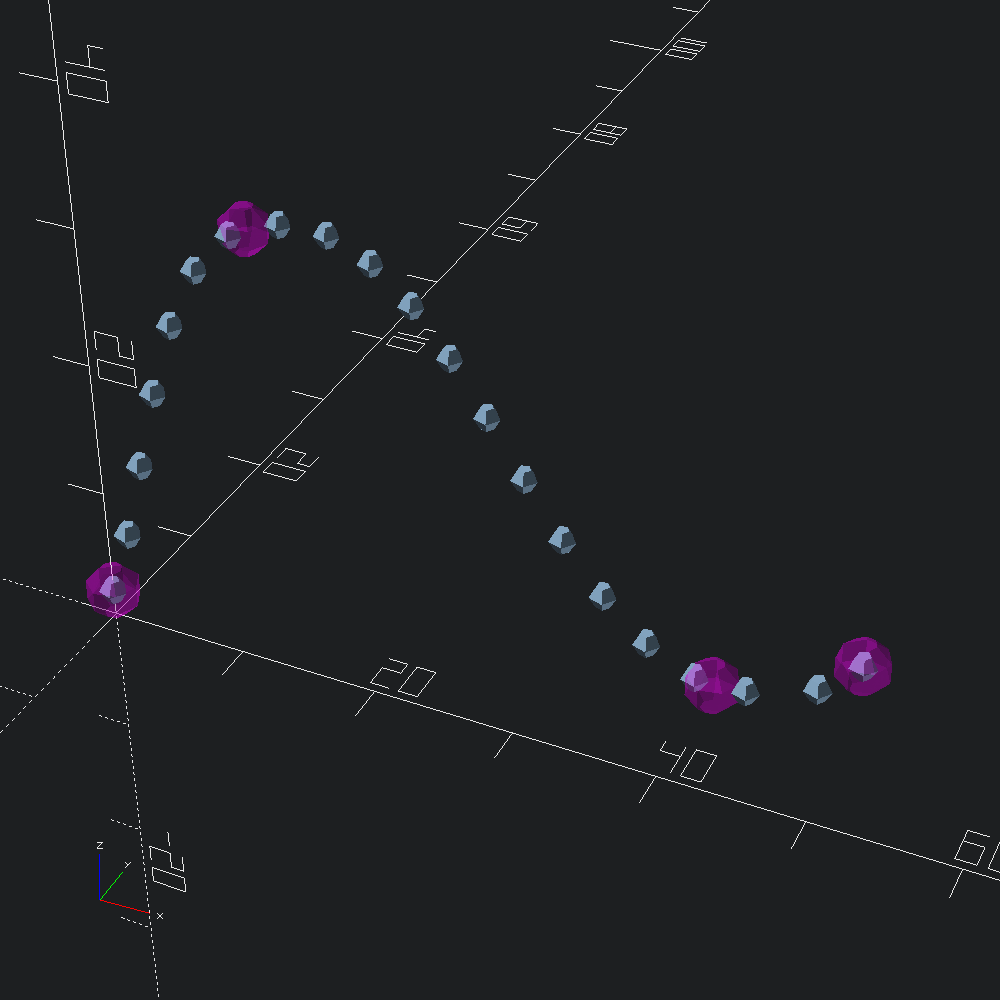
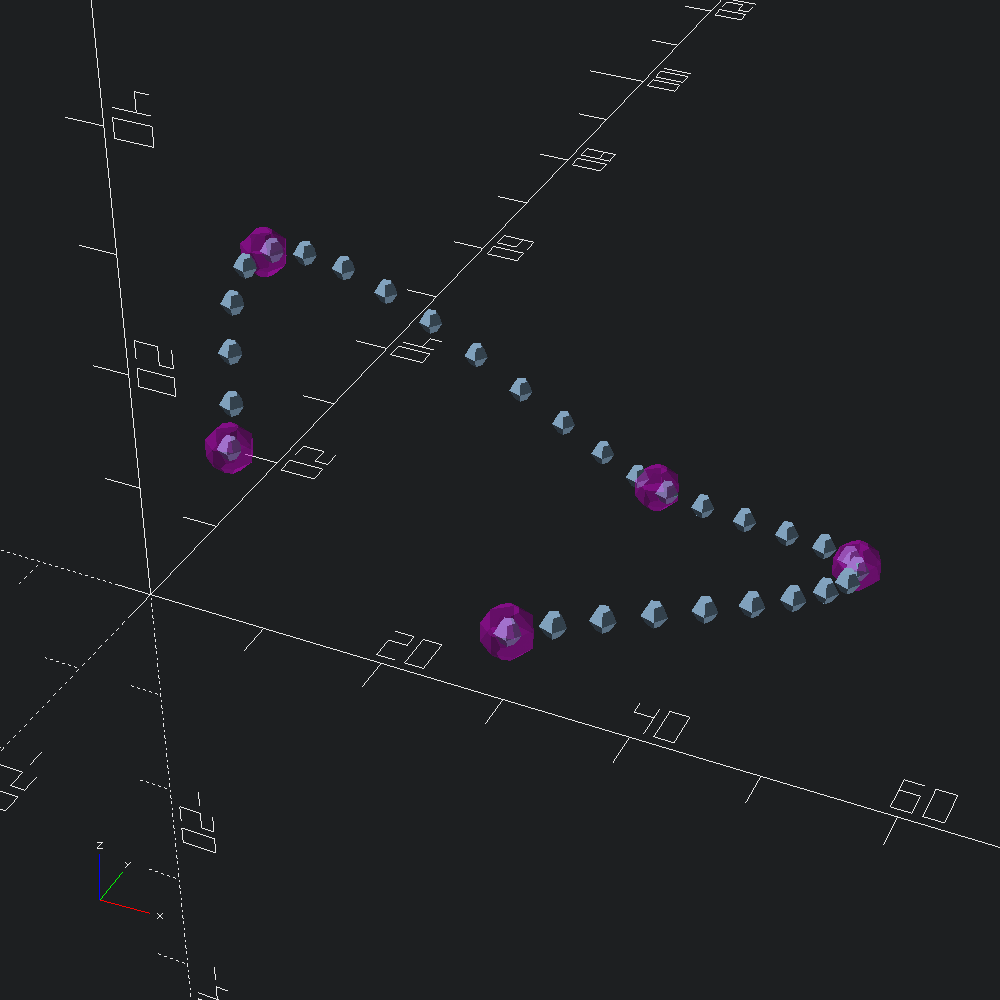
deploy: 494213b4adae53a23c4bdc8cb17ec07ea3f0b364

diff --git a/scad_ml/Scad_ml/Mesh/Prism/index.html b/scad_ml/Scad_ml/Mesh/Prism/index.html
@@ -1,5 +1,5 @@
 <!DOCTYPE html>
-<html xmlns="http://www.w3.org/1999/xhtml"><head><title>Prism (scad_ml.Scad_ml.Mesh.Prism)</title><link rel="stylesheet" href="../../../../odoc.css"/><meta charset="utf-8"/><meta name="generator" content="odoc 2.1.1"/><meta name="viewport" content="width=device-width,initial-scale=1.0"/><script src="../../../../highlight.pack.js"></script><script>hljs.initHighlightingOnLoad();</script></head><body class="odoc"><nav class="odoc-nav"><a href="../index.html">Up</a> – <a href="../../../index.html">scad_ml</a> &#x00BB; <a href="../../index.html">Scad_ml</a> &#x00BB; <a href="../index.html">Mesh</a> &#x00BB; Prism</nav><header class="odoc-preamble"><h1>Module <code><span>Mesh.Prism</span></code></h1><p>Rounded prism configuration module.</p></header><div class="odoc-content"><div class="odoc-spec"><div class="spec type" id="type-spec" class="anchored"><a href="#type-spec" class="anchor"></a><code><span><span class="keyword">type</span> spec</span><span> = </span><span>{</span></code><table><tr id="type-spec.k" class="anchored"><td class="def record field"><a href="#type-spec.k" class="anchor"></a><code><span>k : float;</span></code></td><td class="def-doc"><span class="comment-delim">(*</span><p>default curvature used if specific curvatures are <code>None</code></p><span class="comment-delim">*)</span></td></tr><tr id="type-spec.k_bot" class="anchored"><td class="def record field"><a href="#type-spec.k_bot" class="anchor"></a><code><span>k_bot : <span>float option</span>;</span></code></td><td class="def-doc"><span class="comment-delim">(*</span><p>curvature smoothness of bottom edges</p><span class="comment-delim">*)</span></td></tr><tr id="type-spec.k_top" class="anchored"><td class="def record field"><a href="#type-spec.k_top" class="anchor"></a><code><span>k_top : <span>float option</span>;</span></code></td><td class="def-doc"><span class="comment-delim">(*</span><p>curvature smoothness of bottom top</p><span class="comment-delim">*)</span></td></tr><tr id="type-spec.k_sides" class="anchored"><td class="def record field"><a href="#type-spec.k_sides" class="anchor"></a><code><span>k_sides : <span><span>[ <span>`Flat of float</span> <span><span>| `Mix</span> of <span>float list</span></span> ]</span> option</span>;</span></code></td><td class="def-doc"><span class="comment-delim">(*</span><p>smoothness to be applied flatly to all side edges, or a list specifying a smoothness for each edge (must be same length as corresponding paths)</p><span class="comment-delim">*)</span></td></tr><tr id="type-spec.joint_bot" class="anchored"><td class="def record field"><a href="#type-spec.joint_bot" class="anchor"></a><code><span>joint_bot : float * float;</span></code></td><td class="def-doc"><span class="comment-delim">(*</span><p>pair of inwards (into bottom face) and upwards (towards top) joint distances</p><span class="comment-delim">*)</span></td></tr><tr id="type-spec.joint_top" class="anchored"><td class="def record field"><a href="#type-spec.joint_top" class="anchor"></a><code><span>joint_top : float * float;</span></code></td><td class="def-doc"><span class="comment-delim">(*</span><p>pair of inwards (into top face) and downwards (towards bottom) joint distances</p><span class="comment-delim">*)</span></td></tr><tr id="type-spec.joint_sides" class="anchored"><td class="def record field"><a href="#type-spec.joint_sides" class="anchor"></a><code><span>joint_sides : <span>[ <span>`Flat of float * float</span> <span><span>| `Mix</span> of <span><span>(float * float)</span> list</span></span> ]</span>;</span></code></td><td class="def-doc"><span class="comment-delim">(*</span><p>pair of backwards and forwards joint distances to be applied flatly to all side edges, or a list specifying joints for each edge (must be same length as corresponding paths)</p><span class="comment-delim">*)</span></td></tr></table><code><span>}</span></code></div><div class="spec-doc"><p>Rounded prism joint and curvature specification.</p><p>In general, <code>joint_</code> parameters are pairs determine the distance away from the edge that curvature begins, and <code>k</code> parameters set the smoothness of the curvature.</p></div></div><div class="odoc-spec"><div class="spec type" id="type-holes" class="anchored"><a href="#type-holes" class="anchor"></a><code><span><span class="keyword">type</span> holes</span><span> = </span><span>[ </span></code><table><tr id="type-holes.Same" class="anchored"><td class="def constructor"><a href="#type-holes.Same" class="anchor"></a><code><span>| </span></code><code><span>`Same</span></code></td><td class="def-doc"><span class="comment-delim">(*</span><p>the outer path <a href="#type-spec"><code>spec</code></a> should be used for the holes</p><span class="comment-delim">*)</span></td></tr><tr id="type-holes.Flip" class="anchored"><td class="def constructor"><a href="#type-holes.Flip" class="anchor"></a><code><span>| </span></code><code><span>`Flip</span></code></td><td class="def-doc"><span class="comment-delim">(*</span><p>the outer path <a href="#type-spec"><code>spec</code></a> should be used for the holes, but with the top and bottom inward joint directions flipped (see <a href="#val-flip"><code>flip</code></a>)</p><span class="comment-delim">*)</span></td></tr><tr id="type-holes.Spec" class="anchored"><td class="def constructor"><a href="#type-holes.Spec" class="anchor"></a><code><span>| </span></code><code><span>`Spec <span class="keyword">of</span> <a href="#type-spec">spec</a></span></code></td><td class="def-doc"><span class="comment-delim">(*</span><p>one <a href="#type-spec"><code>spec</code></a> to use for all holes</p><span class="comment-delim">*)</span></td></tr><tr id="type-holes.Mix" class="anchored"><td class="def constructor"><a href="#type-holes.Mix" class="anchor"></a><code><span>| </span></code><code><span>`Mix <span class="keyword">of</span> <span><span>[ <span>`Spec of <a href="#type-spec">spec</a></span> <span>| `Flip</span> <span>| `Same</span> ]</span> list</span></span></code></td></tr></table><code><span> ]</span></code></div><div class="spec-doc"><p>Specifies how holes in the prism should be treated, either relative to the outer shape, or independantly. When multiple holes are present, <code>`Mix</code> allows each one to be specified separately, to treat all the same, use the other variants directly.</p></div></div><div class="odoc-spec"><div class="spec value" id="val-flip" class="anchored"><a href="#val-flip" class="anchor"></a><code><span><span class="keyword">val</span> flip : <span><a href="#type-spec">spec</a> <span class="arrow">&#45;&gt;</span></span> <a href="#type-spec">spec</a></span></code></div><div class="spec-doc"><p><code>flip spec</code></p><p>Negate the top and bottom inwards joints (firsts of the <code>joint_bot</code> and <code>joint_top</code> pairs) of <code>spec</code>. These values govern whether the roundover flare inwards (positive when shape is CCW) or outwards (negative when shape is CCW). Since holes (inner paths) have reverse winding compared the outer path, you'll often want to use opposite polarity inward joints.</p></div></div><div class="odoc-spec"><div class="spec value" id="val-spec" class="anchored"><a href="#val-spec" class="anchor"></a><code><span><span class="keyword">val</span> spec : 
+<html xmlns="http://www.w3.org/1999/xhtml"><head><title>Prism (scad_ml.Scad_ml.Mesh.Prism)</title><link rel="stylesheet" href="../../../../odoc.css"/><meta charset="utf-8"/><meta name="generator" content="odoc 2.1.1"/><meta name="viewport" content="width=device-width,initial-scale=1.0"/><script src="../../../../highlight.pack.js"></script><script>hljs.initHighlightingOnLoad();</script></head><body class="odoc"><nav class="odoc-nav"><a href="../index.html">Up</a> – <a href="../../../index.html">scad_ml</a> &#x00BB; <a href="../../index.html">Scad_ml</a> &#x00BB; <a href="../index.html">Mesh</a> &#x00BB; Prism</nav><header class="odoc-preamble"><h1>Module <code><span>Mesh.Prism</span></code></h1><p>Rounded prism configuration module.</p></header><div class="odoc-content"><div class="odoc-spec"><div class="spec type" id="type-spec" class="anchored"><a href="#type-spec" class="anchor"></a><code><span><span class="keyword">type</span> spec</span><span> = </span><span>{</span></code><table><tr id="type-spec.k" class="anchored"><td class="def record field"><a href="#type-spec.k" class="anchor"></a><code><span>k : float;</span></code></td><td class="def-doc"><span class="comment-delim">(*</span><p>default curvature used if specific curvatures are <code>None</code></p><span class="comment-delim">*)</span></td></tr><tr id="type-spec.k_bot" class="anchored"><td class="def record field"><a href="#type-spec.k_bot" class="anchor"></a><code><span>k_bot : <span>float option</span>;</span></code></td><td class="def-doc"><span class="comment-delim">(*</span><p>curvature smoothness of bottom edges</p><span class="comment-delim">*)</span></td></tr><tr id="type-spec.k_top" class="anchored"><td class="def record field"><a href="#type-spec.k_top" class="anchor"></a><code><span>k_top : <span>float option</span>;</span></code></td><td class="def-doc"><span class="comment-delim">(*</span><p>curvature smoothness of bottom top</p><span class="comment-delim">*)</span></td></tr><tr id="type-spec.k_sides" class="anchored"><td class="def record field"><a href="#type-spec.k_sides" class="anchor"></a><code><span>k_sides : <span><span>[ <span>`Flat of float</span> <span><span>| `Mix</span> of <span>float list</span></span> ]</span> option</span>;</span></code></td><td class="def-doc"><span class="comment-delim">(*</span><p>smoothness to be applied flatly to all side edges, or a list specifying a smoothness for each edge (must be same length as corresponding paths)</p><span class="comment-delim">*)</span></td></tr><tr id="type-spec.joint_bot" class="anchored"><td class="def record field"><a href="#type-spec.joint_bot" class="anchor"></a><code><span>joint_bot : float * float;</span></code></td><td class="def-doc"><span class="comment-delim">(*</span><p>pair of inwards (into bottom face) and upwards (towards top) joint distances</p><span class="comment-delim">*)</span></td></tr><tr id="type-spec.joint_top" class="anchored"><td class="def record field"><a href="#type-spec.joint_top" class="anchor"></a><code><span>joint_top : float * float;</span></code></td><td class="def-doc"><span class="comment-delim">(*</span><p>pair of inwards (into top face) and downwards (towards bottom) joint distances</p><span class="comment-delim">*)</span></td></tr><tr id="type-spec.joint_sides" class="anchored"><td class="def record field"><a href="#type-spec.joint_sides" class="anchor"></a><code><span>joint_sides : <span>[ <span>`Flat of float * float</span> <span><span>| `Mix</span> of <span><span>(float * float)</span> list</span></span> ]</span>;</span></code></td><td class="def-doc"><span class="comment-delim">(*</span><p>pair of backwards and forwards joint distances to be applied flatly to all side edges, or a list specifying joints for each edge (must be same length as corresponding paths)</p><span class="comment-delim">*)</span></td></tr></table><code><span>}</span></code></div><div class="spec-doc"><p>Rounded prism joint and curvature specification.</p><p>In general, <code>joint_</code> parameters are pairs determine the distance away from the edge that curvature begins, and <code>k</code> parameters set the smoothness of the curvature.</p></div></div><div class="odoc-spec"><div class="spec type" id="type-holes" class="anchored"><a href="#type-holes" class="anchor"></a><code><span><span class="keyword">type</span> holes</span><span> = </span><span>[ </span></code><table><tr id="type-holes.Same" class="anchored"><td class="def constructor"><a href="#type-holes.Same" class="anchor"></a><code><span>| </span></code><code><span>`Same</span></code></td><td class="def-doc"><span class="comment-delim">(*</span><p>the outer path <a href="#type-spec"><code>spec</code></a> should be used for the holes</p><span class="comment-delim">*)</span></td></tr><tr id="type-holes.Flip" class="anchored"><td class="def constructor"><a href="#type-holes.Flip" class="anchor"></a><code><span>| </span></code><code><span>`Flip</span></code></td><td class="def-doc"><span class="comment-delim">(*</span><p>the outer path <a href="#type-spec"><code>spec</code></a> should be used for the holes, but with the top and bottom inward joint directions flipped (see <a href="#val-flip"><code>flip</code></a>)</p><span class="comment-delim">*)</span></td></tr><tr id="type-holes.Spec" class="anchored"><td class="def constructor"><a href="#type-holes.Spec" class="anchor"></a><code><span>| </span></code><code><span>`Spec <span class="keyword">of</span> <a href="#type-spec">spec</a></span></code></td><td class="def-doc"><span class="comment-delim">(*</span><p>one <a href="#type-spec"><code>spec</code></a> to use for all holes</p><span class="comment-delim">*)</span></td></tr><tr id="type-holes.Mix" class="anchored"><td class="def constructor"><a href="#type-holes.Mix" class="anchor"></a><code><span>| </span></code><code><span>`Mix <span class="keyword">of</span> <span><span>[ <span>`Spec of <a href="#type-spec">spec</a></span> <span>| `Flip</span> <span>| `Same</span> ]</span> list</span></span></code></td></tr></table><code><span> ]</span></code></div><div class="spec-doc"><p>Specifies how holes in the prism should be treated, either relative to the outer shape, or independantly. When multiple holes are present, <code>`Mix</code> allows each one to be specified separately, to treat all the same, use the other variants directly.</p></div></div><div class="odoc-spec"><div class="spec value" id="val-flip" class="anchored"><a href="#val-flip" class="anchor"></a><code><span><span class="keyword">val</span> flip : <span><a href="#type-spec">spec</a> <span class="arrow">&#45;&gt;</span></span> <a href="#type-spec">spec</a></span></code></div><div class="spec-doc"><p><code>flip spec</code></p><p>Negate the top and bottom inwards joints (firsts of the <code>joint_bot</code> and <code>joint_top</code> pairs) of <code>caps</code>. These values govern whether the roundover flare inwards (positive when shape is CCW) or outwards (negative when shape is CCW). Since holes (inner paths) have reverse winding compared the outer path, you'll often want to use opposite polarity inward joints.</p></div></div><div class="odoc-spec"><div class="spec value" id="val-spec" class="anchored"><a href="#val-spec" class="anchor"></a><code><span><span class="keyword">val</span> spec : 
   <span>?k:float <span class="arrow">&#45;&gt;</span></span>
   <span>?k_bot:float <span class="arrow">&#45;&gt;</span></span>
   <span>?k_top:float <span class="arrow">&#45;&gt;</span></span>

diff --git a/scad_ml/rounded_polyhole_sweep.html b/scad_ml/rounded_polyhole_sweep.html
@@ -1,6 +1,8 @@
 <!DOCTYPE html>
-<html xmlns="http://www.w3.org/1999/xhtml"><head><title>rounded_polyhole_sweep (scad_ml.rounded_polyhole_sweep)</title><link rel="stylesheet" href="../odoc.css"/><meta charset="utf-8"/><meta name="generator" content="odoc 2.1.1"/><meta name="viewport" content="width=device-width,initial-scale=1.0"/><script src="../highlight.pack.js"></script><script>hljs.initHighlightingOnLoad();</script></head><body class="odoc"><nav class="odoc-nav"><a href="index.html">Up</a> – <a href="index.html">scad_ml</a> &#x00BB; rounded_polyhole_sweep</nav><header class="odoc-preamble"><h1 id="rounded-sweeps"><a href="#rounded-sweeps" class="anchor"></a>Rounded sweeps</h1><pre><code>open Scad_ml</code></pre><p>Create a bezier spline function which passes through all of points in <code>control</code> using <a href="Scad_ml/Bezier3/index.html#val-of_path"><code>Bezier3.of_path</code></a>, and interpolate <code>20</code> points along it to create our <code>path</code> with <a href="Scad_ml/Bezier3/index.html#val-curve"><code>Bezier3.curve</code></a>.</p><pre><code>let control = Vec3.[ v 0. 0. 2.; v 0. 20. 20.; v 40. 10. 0.; v 50. 10. 5. ]
-let path = Bezier3.curve ~fn:20 @@ Bezier3.of_path control</code></pre><p>We can quickly visualize <code>path</code>, and the <code>control</code> points that it passes through by using the <a href="Scad_ml/Path3/index.html#val-show_points"><code>Path3.show_points</code></a> helper, which places a <a href="Scad_ml/Scad/index.html#type-d3"><code>Scad.d3</code></a> shape at each point along the path (this takes a function from index to shape, rather than a shape directly to allow for differentiating the points, <i>e.g.</i> numbering with <a href="Scad_ml/Scad/index.html#val-text"><code>Scad.text</code></a>).</p><pre><code>let () =
+<html xmlns="http://www.w3.org/1999/xhtml"><head><title>rounded_polyhole_sweep (scad_ml.rounded_polyhole_sweep)</title><link rel="stylesheet" href="../odoc.css"/><meta charset="utf-8"/><meta name="generator" content="odoc 2.1.1"/><meta name="viewport" content="width=device-width,initial-scale=1.0"/><script src="../highlight.pack.js"></script><script>hljs.initHighlightingOnLoad();</script></head><body class="odoc"><nav class="odoc-nav"><a href="index.html">Up</a> – <a href="index.html">scad_ml</a> &#x00BB; rounded_polyhole_sweep</nav><header class="odoc-preamble"><h1 id="rounded-sweeps"><a href="#rounded-sweeps" class="anchor"></a>Rounded sweeps</h1><pre><code>open Scad_ml</code></pre><p>Create a bezier spline function which passes through all of points in <code>control</code> using <a href="Scad_ml/Bezier3/index.html#val-of_path"><code>Bezier3.of_path</code></a>, and interpolate <code>20</code> points along it to create our <code>path</code> with <a href="Scad_ml/Bezier3/index.html#val-curve"><code>Bezier3.curve</code></a>.</p><pre><code>let control =
+  Vec3.[ v 5. 5. 12.; v 0. 20. 20.; v 30. 30. 0.; v 50. 20. 5.; v 35. (-10.) 15. ]
+
+let path = Bezier3.curve ~fn:30 @@ Bezier3.of_path control</code></pre><p>We can quickly visualize <code>path</code>, and the <code>control</code> points that it passes through by using the <a href="Scad_ml/Path3/index.html#val-show_points"><code>Path3.show_points</code></a> helper, which places a <a href="Scad_ml/Scad/index.html#type-d3"><code>Scad.d3</code></a> shape at each point along the path (this takes a function from index to shape, rather than a shape directly to allow for differentiating the points, <i>e.g.</i> numbering with <a href="Scad_ml/Scad/index.html#val-text"><code>Scad.text</code></a>).</p><pre><code>let () =
   Scad.to_file &quot;bezier_spline_path.scad&quot;
   @@ Scad.union
        [ Path3.show_points (fun _ -&gt; Scad.sphere 1.) path
@@ -23,11 +25,11 @@ let path = Bezier3.curve ~fn:20 @@ Bezier3.of_path control</code></pre><p>We can
   Poly2.make ~holes outer</code></pre><p>2d shapes defined with <a href="Scad_ml/Poly2/index.html#type-t"><code>Poly2.t</code></a> can be translated into OpenSCAD polygons by way of <a href="Scad_ml/Poly2/index.html#val-to_scad"><code>Poly2.to_scad</code></a>.</p><pre><code>let () = Scad.to_file &quot;chamfered_square_with_holes.scad&quot; (Poly2.to_scad poly)</code></pre>
 <p style="text-align:center;">
 <img src="../assets/chamfered_square_with_holes.png" style="width:150mm;"/>
-</p> <p><a href="Scad_ml/Mesh/index.html#val-sweep"><code>Mesh.sweep</code></a> derived functions take a <code>~spec</code> parameter that specifies what to do with the end faces of the extruded mesh. By default, both caps are flat and identical to the input polygon (<a href="Scad_ml/Mesh/Cap/index.html#val-flat_caps"><code>Mesh.Cap.flat_caps</code></a>), but in this example, we will be rounding them over.</p><p>To build our <code>spec</code>, we'll use the <a href="Scad_ml/Mesh/Cap/index.html#val-capped"><code>Mesh.Cap.capped</code></a> constructor which takes specification types for how we would like to treat the bottom and top faces of our extrusion. In this case, we'll be applying roundovers to both the <code>bot</code>tom and <code>top</code> faces, so we use <a href="Scad_ml/Mesh/Cap/index.html#val-round"><code>Mesh.Cap.round</code></a> which takes an <a href="Scad_ml/Mesh/Cap/index.html#val-offsets"><code>Mesh.Cap.offsets</code></a> containing the offset distance/radius and &quot;vertical&quot; step for each outline of the outer roundover, and optionally, the desired treatment of the inner paths (as <code>~holes</code>). Typically, the offsets will be generated by a helper such as <a href="Scad_ml/Mesh/Cap/index.html#val-chamf"><code>Mesh.Cap.chamf</code></a> and <a href="Scad_ml/Mesh/Cap/index.html#val-circ"><code>Mesh.Cap.circ</code></a> below.</p><p>Here we apply a negative (outward flaring) chamfer to the bottom face, setting <code>holes</code> to <code>`Same</code>, so that the circular holes in <code>poly</code> are also expanded, rather than pinched off (default is (<code>~holes:`Flip</code>), which negates the outer roundover for inner paths). For the top face, we specify a positive (inward) circular roundover, leaving <code>holes</code> as its default since we want the holes to flare out instead.</p><pre><code>let spec =
+</p> <p><a href="Scad_ml/Mesh/index.html#val-sweep"><code>Mesh.sweep</code></a> derived functions take a <code>~caps</code> parameter that specifies what to do with the end faces of the extruded mesh. By default, both caps are flat and identical to the input polygon (<a href="Scad_ml/Mesh/Cap/index.html#val-flat_caps"><code>Mesh.Cap.flat_caps</code></a>), but in this example, we will be rounding them over.</p><p>To build our <code>caps</code>, we'll use the <a href="Scad_ml/Mesh/Cap/index.html#val-capped"><code>Mesh.Cap.capped</code></a> constructor which takes specification types for how we would like to treat the bottom and top faces of our extrusion. In this case, we'll be applying roundovers to both the <code>bot</code>tom and <code>top</code> faces, so we use <a href="Scad_ml/Mesh/Cap/index.html#val-round"><code>Mesh.Cap.round</code></a> which takes an <a href="Scad_ml/Mesh/Cap/index.html#val-offsets"><code>Mesh.Cap.offsets</code></a> containing the offset distance/radius and &quot;vertical&quot; step for each outline of the outer roundover, and optionally, the desired treatment of the inner paths (as <code>~holes</code>). Typically, the offsets will be generated by a helper such as <a href="Scad_ml/Mesh/Cap/index.html#val-chamf"><code>Mesh.Cap.chamf</code></a> and <a href="Scad_ml/Mesh/Cap/index.html#val-circ"><code>Mesh.Cap.circ</code></a> below.</p><p>Here we apply a negative (outward flaring) chamfer to the bottom face, setting <code>holes</code> to <code>`Same</code>, so that the circular holes in <code>poly</code> are also expanded, rather than pinched off (default is (<code>~holes:`Flip</code>), which negates the outer roundover for inner paths). For the top face, we specify a positive (inward) circular roundover, leaving <code>holes</code> as its default since we want the holes to flare out instead.</p><pre><code>let caps =
   Mesh.Cap.(
     capped
       ~bot:(round ~holes:`Same @@ chamf ~height:(-1.2) ~angle:(Float.pi /. 8.) ())
-      ~top:(round @@ circ (`Radius 0.5)))</code></pre><p>Extrude <code>poly</code> along <code>path</code>, with rounding over the end caps according to <code>spec</code> using <a href="Scad_ml/Mesh/index.html#val-path_extrude"><code>Mesh.path_extrude</code></a>.</p><pre><code>let mesh = Mesh.path_extrude ~path ~spec poly</code></pre><p>Convert our mesh into an OpenSCAD polyhedron and output to file with <a href="Scad_ml/Mesh/index.html#val-to_scad"><code>Mesh.to_scad</code></a>.</p><pre><code>let () = Scad.to_file &quot;rounded_polyhole_sweep.scad&quot; (Mesh.to_scad mesh)</code></pre>
+      ~top:(round @@ circ (`Radius 0.5)))</code></pre><p>Extrude <code>poly</code> along <code>path</code>, with rounding over the end caps according to <code>caps</code> using <a href="Scad_ml/Mesh/index.html#val-path_extrude"><code>Mesh.path_extrude</code></a>.</p><pre><code>let mesh = Mesh.path_extrude ~path ~caps poly</code></pre><p>Convert our mesh into an OpenSCAD polyhedron and output to file with <a href="Scad_ml/Mesh/index.html#val-to_scad"><code>Mesh.to_scad</code></a>.</p><pre><code>let () = Scad.to_file &quot;rounded_polyhole_sweep.scad&quot; (Mesh.to_scad mesh)</code></pre>
 <p style="text-align:center;">
 <img src="../assets/rounded_polyhole_sweep.png" style="width:150mm;"/>
 </p> <p>Rounded 3d paths for sweeping can also be drawn with the help of the <a href="Scad_ml/Path3/Round/index.html"><code>Path3.Round</code></a> module, which works much the same as its counterpart in <a href="Scad_ml/Path2/index.html"><code>Path2</code></a> that we used to chamfer our <code>poly</code> earlier.</p><pre><code>let rounded_path =
@@ -36,8 +38,8 @@ let path = Bezier3.curve ~fn:20 @@ Bezier3.of_path control</code></pre><p>We can
     @@ Round.flat
          ~closed:true
          ~corner:(Round.circ (`Radius 10.))
-         (v3 (-25.) 25. 0. :: Path3.square (v2 50. 50.)))</code></pre><p><a href="Scad_ml/Mesh/index.html#val-path_extrude"><code>Mesh.path_extrude</code></a> (and other functions derived from <code>Mesh.sweep</code>) can be given <code>~spec:`Looped</code>, which will connect the final position of the sweep up with the beginning, rather than sealing both ends off with caps. If the swept polygon has holes (as our <code>poly</code> does), they will be included, and continuous much like the outer shape.</p><pre><code>let () =
-  let loop = Mesh.(to_scad @@ path_extrude ~spec:`Looped ~path:rounded_path poly)
+         (v3 (-25.) 25. 0. :: Path3.square (v2 50. 50.)))</code></pre><p><a href="Scad_ml/Mesh/index.html#val-path_extrude"><code>Mesh.path_extrude</code></a> (and other functions derived from <code>Mesh.sweep</code>) can be given <code>~caps:`Looped</code>, which will connect the final position of the sweep up with the beginning, rather than sealing both ends off with caps. If the swept polygon has holes (as our <code>poly</code> does), they will be included, and continuous much like the outer shape.</p><pre><code>let () =
+  let loop = Mesh.(to_scad @@ path_extrude ~caps:`Looped ~path:rounded_path poly)
   and cut =
     Scad.cylinder ~fn:50 ~center:true ~height:11. 5.
     |&gt; Scad.scale (v3 1.2 1. 1.)

diff --git a/scad_ml/Scad_ml/Mesh/index.html b/scad_ml/Scad_ml/Mesh/index.html
@@ -9,10 +9,20 @@
   <span>?check_valid:<span>[ <span>`Quality of int</span> <span>| `No</span> ]</span> <span class="arrow">&#45;&gt;</span></span>
   <span>?merge:bool <span class="arrow">&#45;&gt;</span></span>
   <span>?winding:<span>[&lt; `CCW <span>| `CW</span> <span>| `NoCheck</span> CCW CW ]</span> <span class="arrow">&#45;&gt;</span></span>
-  <span>?spec:<a href="Cap/index.html#type-t">Cap.t</a> <span class="arrow">&#45;&gt;</span></span>
+  <span>?caps:<a href="Cap/index.html#type-t">Cap.t</a> <span class="arrow">&#45;&gt;</span></span>
   <span>transforms:<span><a href="../MultMatrix/index.html#type-t">MultMatrix.t</a> list</span> <span class="arrow">&#45;&gt;</span></span>
   <span><a href="../Poly2/index.html#type-t">Poly2.t</a> <span class="arrow">&#45;&gt;</span></span>
-  <a href="#type-t">t</a></span></code></div><div class="spec-doc"><p><code>sweep ?check_valid ?winding ?merge ?fn ?fs ?fa ?spec ~transforms poly</code></p><p>Sweep a 2d polygon into a 3d mesh by applying a sequence of <code>transforms</code> to the original shape. The <code>winding</code> parameter can be used to set automatic enforcement of polygon winding direction, which will impact the winding of the generated faces of the mesh. What is done with the endcaps can be specified with <code>spec</code>. By default the ends of the extrusion are sealed with flat faces, but they can instead be looped to eachother, left empty, or rounded over. If <code>merge</code> is <code>true</code> (as is default), <a href="#val-merge_points"><code>merge_points</code></a> is applied to the resulting mesh, as duplicate points are introduced when end caps are joined to the outer and inner meshes. If the duplicate points aren't a problem for you (they aren't <i>necessarily</i>), this can be turned off to save some compute.</p><p>Relevant when roundovers are on:</p><ul><li><code>check_valid</code> determines whether validity checks are performed during offset operations, see <a href="../Path2/index.html#val-offset"><code>Path2.offset</code></a>, for cap roundovers (if specified).</li><li><code>fn</code>, <code>fs</code>, and <code>fa</code> determine number of points used when generating new points in the <a href="../Path2/index.html#val-offset"><code>Path2.offset</code></a> roundover, if <code>`Radius</code> mode is being used.</li></ul></div></div><div class="odoc-spec"><div class="spec value" id="val-linear_extrude" class="anchored"><a href="#val-linear_extrude" class="anchor"></a><code><span><span class="keyword">val</span> linear_extrude : 
+  <a href="#type-t">t</a></span></code></div><div class="spec-doc"><p><code>sweep ?check_valid ?winding ?merge ?fn ?fs ?fa ?caps ~transforms poly</code></p><p>Sweep a 2d polygon into a 3d mesh by applying a sequence of <code>transforms</code> to the original shape. The <code>winding</code> parameter can be used to set automatic enforcement of polygon winding direction, which will impact the winding of the generated faces of the mesh. What is done with the endcaps can be specified with <code>caps</code>. By default the ends of the extrusion are sealed with flat faces, but they can instead be looped to eachother, left empty, or rounded over. If <code>merge</code> is <code>true</code> (as is default), <a href="#val-merge_points"><code>merge_points</code></a> is applied to the resulting mesh, as duplicate points are introduced when end caps are joined to the outer and inner meshes. If the duplicate points aren't a problem for you (they aren't <i>necessarily</i>), this can be turned off to save some compute.</p><p>Relevant when roundovers are on:</p><ul><li><code>check_valid</code> determines whether validity checks are performed during offset operations, see <a href="../Path2/index.html#val-offset"><code>Path2.offset</code></a>, for cap roundovers (if specified).</li><li><code>fn</code>, <code>fs</code>, and <code>fa</code> determine number of points used when generating new points in the <a href="../Path2/index.html#val-offset"><code>Path2.offset</code></a> roundover, if <code>`Radius</code> mode is being used.</li></ul></div></div><div class="odoc-spec"><div class="spec value" id="val-morph" class="anchored"><a href="#val-morph" class="anchor"></a><code><span><span class="keyword">val</span> morph : 
+  <span>?check_valid:<span>[ <span>`Quality of int</span> <span>| `No</span> ]</span> <span class="arrow">&#45;&gt;</span></span>
+  <span>?merge:bool <span class="arrow">&#45;&gt;</span></span>
+  <span>?winding:<span>[&lt; `CCW <span>| `CW</span> <span>| `NoCheck</span> CCW CW ]</span> <span class="arrow">&#45;&gt;</span></span>
+  <span>?caps:<a href="Cap/index.html#type-t">Cap.t</a> <span class="arrow">&#45;&gt;</span></span>
+  <span>?outer_map:<span>[ <a href="../Skin/index.html#type-resampler">Skin.resampler</a> <span>| <a href="../Skin/index.html#type-duplicator">Skin.duplicator</a></span> ]</span> <span class="arrow">&#45;&gt;</span></span>
+  <span>?hole_map:<span>[ `Same <span>| <a href="../Skin/index.html#type-mapping">Skin.mapping</a></span> ]</span> <span class="arrow">&#45;&gt;</span></span>
+  <span>transforms:<span><a href="../MultMatrix/index.html#type-t">MultMatrix.t</a> list</span> <span class="arrow">&#45;&gt;</span></span>
+  <span><a href="../Poly2/index.html#type-t">Poly2.t</a> <span class="arrow">&#45;&gt;</span></span>
+  <span><a href="../Poly2/index.html#type-t">Poly2.t</a> <span class="arrow">&#45;&gt;</span></span>
+  <a href="#type-t">t</a></span></code></div><div class="spec-doc"><p><code>morph</code></p></div></div><div class="odoc-spec"><div class="spec value" id="val-linear_extrude" class="anchored"><a href="#val-linear_extrude" class="anchor"></a><code><span><span class="keyword">val</span> linear_extrude : 
   <span>?check_valid:<span>[ <span>`Quality of int</span> <span>| `No</span> ]</span> <span class="arrow">&#45;&gt;</span></span>
   <span>?merge:bool <span class="arrow">&#45;&gt;</span></span>
   <span>?winding:<span>[&lt; `CCW <span>| `CW</span> <span>| `NoCheck</span> CCW CW ]</span> <span class="arrow">&#45;&gt;</span></span>
@@ -27,11 +37,11 @@
   <span>height:float <span class="arrow">&#45;&gt;</span></span>
   <span><a href="../Poly2/index.html#type-t">Poly2.t</a> <span class="arrow">&#45;&gt;</span></span>
   <a href="#type-t">t</a></span></code></div><div class="spec-doc"><p><code>linear_extrude ?check_valid ?merge ?winding ?fa ?slices ?scale_k ?twist_k ?scale ?twist
-    ?center ?caps ~height poly</code></p><p>Vertically extrude a 2d polygon into a 3d mesh. <code>slices</code>, <code>scale</code>, <code>twist</code>, <code>center</code>, and <code>height</code> parameters are analogous to those found on <a href="../Scad/index.html#val-linear_extrude"><code>Scad.linear_extrude</code></a>. See <a href="#val-sweep"><code>sweep</code></a> for explaination of shared parameters (note: <code>caps</code> is a subset of <code>spec</code>, since the ends of a linear extrusion cannot be looped)</p></div></div><div class="odoc-spec"><div class="spec value" id="val-path_extrude" class="anchored"><a href="#val-path_extrude" class="anchor"></a><code><span><span class="keyword">val</span> path_extrude : 
+    ?center ?caps ~height poly</code></p><p>Vertically extrude a 2d polygon into a 3d mesh. <code>slices</code>, <code>scale</code>, <code>twist</code>, <code>center</code>, and <code>height</code> parameters are analogous to those found on <a href="../Scad/index.html#val-linear_extrude"><code>Scad.linear_extrude</code></a>. See <a href="#val-sweep"><code>sweep</code></a> for explaination of shared parameters (note: <code>caps</code> is a subset of <code>caps</code>, since the ends of a linear extrusion cannot be looped)</p></div></div><div class="odoc-spec"><div class="spec value" id="val-path_extrude" class="anchored"><a href="#val-path_extrude" class="anchor"></a><code><span><span class="keyword">val</span> path_extrude : 
   <span>?check_valid:<span>[ <span>`Quality of int</span> <span>| `No</span> ]</span> <span class="arrow">&#45;&gt;</span></span>
   <span>?merge:bool <span class="arrow">&#45;&gt;</span></span>
   <span>?winding:<span>[&lt; `CCW <span>| `CW</span> <span>| `NoCheck</span> CCW CW ]</span> <span class="arrow">&#45;&gt;</span></span>
-  <span>?spec:<a href="Cap/index.html#type-t">Cap.t</a> <span class="arrow">&#45;&gt;</span></span>
+  <span>?caps:<a href="Cap/index.html#type-t">Cap.t</a> <span class="arrow">&#45;&gt;</span></span>
   <span>?euler:bool <span class="arrow">&#45;&gt;</span></span>
   <span>?scale_k:float <span class="arrow">&#45;&gt;</span></span>
   <span>?twist_k:float <span class="arrow">&#45;&gt;</span></span>
@@ -39,7 +49,7 @@
   <span>?twist:float <span class="arrow">&#45;&gt;</span></span>
   <span>path:<a href="../Path3/index.html#type-t">Path3.t</a> <span class="arrow">&#45;&gt;</span></span>
   <span><a href="../Poly2/index.html#type-t">Poly2.t</a> <span class="arrow">&#45;&gt;</span></span>
-  <a href="#type-t">t</a></span></code></div><div class="spec-doc"><p><code>path_extrude ?check_valid ?merge ?winding ?spec ?euler
+  <a href="#type-t">t</a></span></code></div><div class="spec-doc"><p><code>path_extrude ?check_valid ?merge ?winding ?caps ?euler
      ?scale_k ?twist_k ?scale ?twist ~path poly</code></p><p>Extrude a 2d polygon along the given <code>path</code> into a 3d mesh. This is a convenience function that composes transform generation using <a href="../Path3/index.html#val-to_transforms"><code>Path3.to_transforms</code></a> with <a href="#val-sweep"><code>Mesh.sweep</code></a>.</p></div></div><div class="odoc-spec"><div class="spec value" id="val-helix_extrude" class="anchored"><a href="#val-helix_extrude" class="anchor"></a><code><span><span class="keyword">val</span> helix_extrude : 
   <span>?check_valid:<span>[ <span>`Quality of int</span> <span>| `No</span> ]</span> <span class="arrow">&#45;&gt;</span></span>
   <span>?merge:bool <span class="arrow">&#45;&gt;</span></span>

diff --git a/scad_ml/Scad_ml/Skin/index.html b/scad_ml/Scad_ml/Skin/index.html
@@ -39,7 +39,13 @@
   <span><span><a href="../Vec3/index.html#type-t">Vec3.t</a> list</span> <span class="arrow">&#45;&gt;</span></span>
   <span><span><a href="../Vec3/index.html#type-t">Vec3.t</a> list</span> <span class="arrow">&#45;&gt;</span></span>
   <span><a href="../Vec3/index.html#type-t">Vec3.t</a> list</span> * <span><a href="../Vec3/index.html#type-t">Vec3.t</a> list</span></span></code></div></div><div class="odoc-spec"><div class="spec value" id="val-tangent_match" class="anchored"><a href="#val-tangent_match" class="anchor"></a><code><span><span class="keyword">val</span> tangent_match : <span><a href="../Path3/index.html#type-t">Path3.t</a> <span class="arrow">&#45;&gt;</span></span> <span><a href="../Path3/index.html#type-t">Path3.t</a> <span class="arrow">&#45;&gt;</span></span> <span><a href="../Vec3/index.html#type-t">Vec3.t</a> list</span> * <span><a href="../Vec3/index.html#type-t">Vec3.t</a> list</span></span></code></div></div><div class="odoc-spec"><div class="spec value" id="val-skin" class="anchored"><a href="#val-skin" class="anchor"></a><code><span><span class="keyword">val</span> skin : 
-  <span>?style:<a href="../Mesh/index.html#type-style">Mesh.style</a> <span class="arrow">&#45;&gt;</span></span>
+  <span>?style:
+    <span>[&lt; `Alt
+    <span>| `Concave</span>
+    <span>| `Convex</span>
+    <span>| `Default</span>
+    <span>| `MinEdge</span>
+    <span>| `Quincunx</span> Default MinEdge Quincunx ]</span> <span class="arrow">&#45;&gt;</span></span>
   <span>?refine:int <span class="arrow">&#45;&gt;</span></span>
   <span>?mapping:
     <span>[ <span>`Flat of
@@ -58,23 +64,4 @@
   <span>?endcaps:<span>[&lt; `Bot <span>| `Both</span> <span>| `Loop</span> <span>| `None</span> <span>| `Top</span> Both ]</span> <span class="arrow">&#45;&gt;</span></span>
   <span>slices:<span>[&lt; <span>`Flat of int</span> <span><span>| `Mix</span> of <span>int list</span></span> ]</span> <span class="arrow">&#45;&gt;</span></span>
   <span><span><a href="../Path3/index.html#type-t">Path3.t</a> list</span> <span class="arrow">&#45;&gt;</span></span>
-  <a href="../Mesh/index.html#type-t">Mesh.t</a></span></code></div></div><div class="odoc-spec"><div class="spec value" id="val-morph'" class="anchored"><a href="#val-morph'" class="anchor"></a><code><span><span class="keyword">val</span> morph' : 
-  <span>?check_valid:<span>[ `No <span><span>| `Quality</span> of int</span> ]</span> <span class="arrow">&#45;&gt;</span></span>
-  <span>?winding:<span>[&lt; `CCW <span>| `CW</span> <span>| `NoCheck</span> CCW ]</span> <span class="arrow">&#45;&gt;</span></span>
-  <span>?sealed:bool <span class="arrow">&#45;&gt;</span></span>
-  <span>?top_mode:<span class="xref-unresolved">Scad_ml__Sweep.Cap.offset_mode</span> <span class="arrow">&#45;&gt;</span></span>
-  <span>?bot_mode:<span class="xref-unresolved">Scad_ml__Sweep.Cap.offset_mode</span> <span class="arrow">&#45;&gt;</span></span>
-  <span>?progress:<span>[&lt; `AutoDist <span>| `AutoPoints</span> <span><span>| `RelDist</span> of <span>float list</span></span> AutoDist ]</span> <span class="arrow">&#45;&gt;</span></span>
-  <span>top:<span>[&lt; `Empty <span>| `Flat</span> <span><span>| `Round</span> of <span class="xref-unresolved">Scad_ml__Sweep.Cap.offsets</span></span> ]</span> <span class="arrow">&#45;&gt;</span></span>
-  <span>bot:<span>[&lt; `Empty <span>| `Flat</span> <span><span>| `Round</span> of <span class="xref-unresolved">Scad_ml__Sweep.Cap.offsets</span></span> ]</span> <span class="arrow">&#45;&gt;</span></span>
-  <span>transforms:<span><a href="../MultMatrix/index.html#type-t">MultMatrix.t</a> list</span> <span class="arrow">&#45;&gt;</span></span>
-  <span><span>[&lt; <span>`Morph of
-       <span>[&lt; <span>`Direct of <span>[ `ByLen <span>| `BySeg</span> ]</span></span>
-       <span>| `Distance</span>
-       <span>| `FastDistance</span>
-       <span><span>| `Reindex</span> of <span>[ `ByLen <span>| `BySeg</span> ]</span></span>
-       <span>| `Tangent</span> Direct ]</span>
-       * <a href="../Path2/index.html#type-t">Path2.t</a>
-       * <a href="../Path2/index.html#type-t">Path2.t</a></span>
-  <span><span>| `Shape</span> of <a href="../Path2/index.html#type-t">Path2.t</a></span> ]</span> <span class="arrow">&#45;&gt;</span></span>
-  <span><a href="../Vec3/index.html#type-t">Vec3.t</a> list</span> * <span><a href="../Vec3/index.html#type-t">Vec3.t</a> list</span> * <span class="xref-unresolved">Scad_ml__Mesh0.t</span></span></code></div></div></div></body></html>
+  <span class="xref-unresolved">Scad_ml__Mesh0.t</span></span></code></div></div></div></body></html>

diff --git a/scad_ml/skins_and_morphs.html b/scad_ml/skins_and_morphs.html
@@ -53,7 +53,6 @@ let () =
     ; sq2
     ; Path3.translate (v3 0. 0. (-0.5)) sq
     ]
-  |&gt; Mesh.merge_points
   |&gt; Mesh.to_scad
   |&gt; fun s -&gt; Scad.union [ s; Scad.sphere 1. ] |&gt; Scad.to_file &quot;skin_test.scad&quot;
 
@@ -91,4 +90,20 @@ let () =
 (*       |&gt; Mesh.translate (v3 0. 0. 1.5) *)
 (*       |&gt; Mesh.to_scad *)
 (*     ] *)
-(*   |&gt; Scad.to_file &quot;circ_test.scad&quot; *)</code></pre></header><div class="odoc-content"></div></body></html>
+(*   |&gt; Scad.to_file &quot;circ_test.scad&quot; *)
+
+let () =
+  let transforms =
+    let control = Vec3.[ v 0. 0. 2.; v 0. 20. 20.; v 40. 20. 10.; v 30. 0. 10. ] in
+    let path = Bezier3.curve ~fn:60 @@ Bezier3.of_path ~size:(`FlatRel 0.3) control in
+    Path3.to_transforms path
+  and caps =
+    Mesh.Cap.(
+      capped
+        ~bot:(round ~holes:`Same @@ chamf ~height:(-1.2) ~angle:(Float.pi /. 8.) ())
+        ~top:(round @@ circ (`Radius 0.5)))
+  and a = Poly2.ring ~fn:5 ~thickness:(v2 2.5 2.5) (v2 6. 6.)
+  and b = Poly2.ring ~fn:80 ~thickness:(v2 2. 2.) (v2 4. 4.) in
+  Mesh.morph ~caps ~transforms ~outer_map:`Tangent a b
+  |&gt; Mesh.to_scad
+  |&gt; fun s -&gt; Scad.union [ s; Scad.sphere 2. ] |&gt; Scad.to_file &quot;tangent_morph_test.scad&quot;</code></pre></header><div class="odoc-content"></div></body></html>
